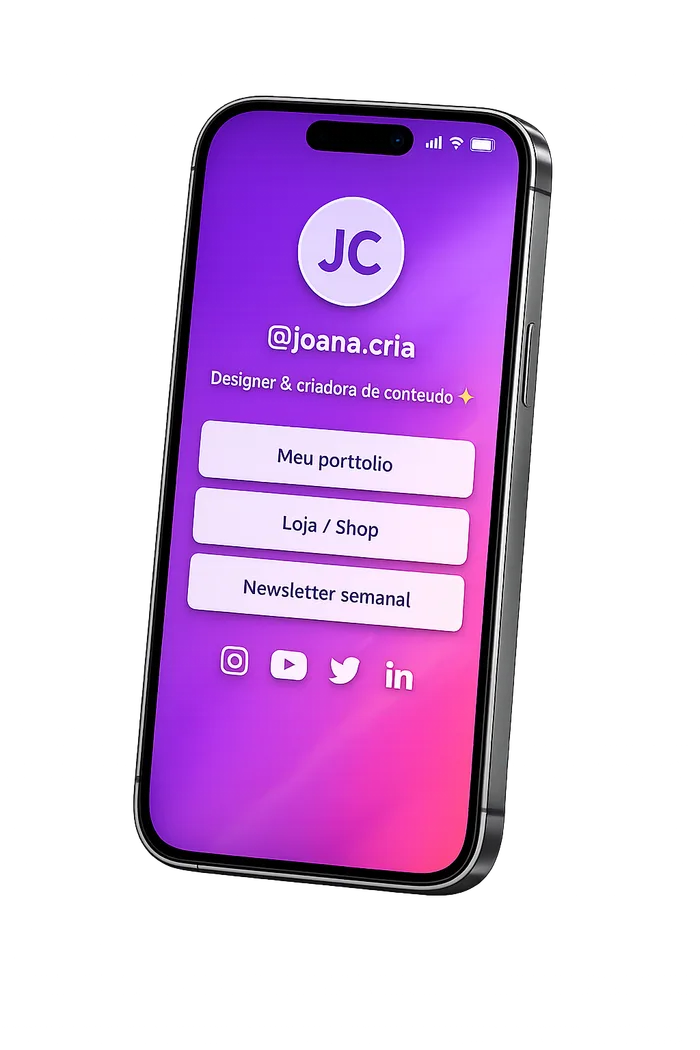
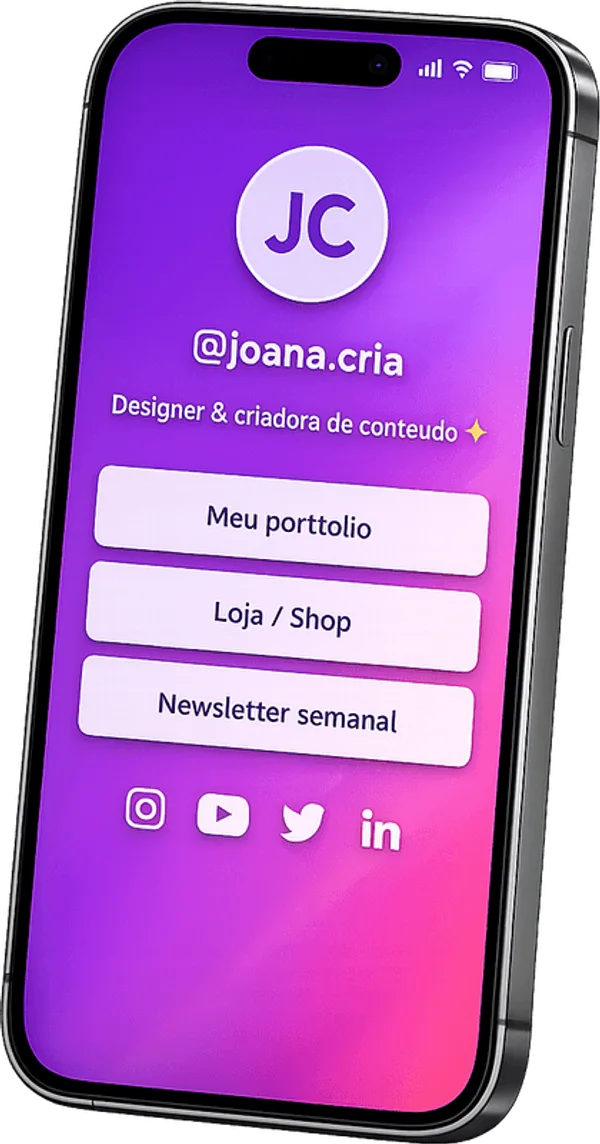
update

diff --git a/pages/index.vue b/pages/index.vue
@@ -57,59 +57,28 @@ const steps = [
   },
 ]
 
-const features = [
+// Seção única "Por que escolher a LinkLand": mistura recursos, público e
+// diferenciais num só bloco enxuto (evita repetir 3 grids parecidos seguidos).
+const highlights = [
   {
     icon: 'i-lucide-layout-template',
-    title: 'Templates com identidade de verdade',
-    text: 'Modelos modernos — do minimalista ao retrô Pixel Art — para sua página de links não parecer genérica.',
+    title: 'Templates com identidade',
+    text: 'Do minimalista ao retrô Pixel Art — nada de página com cara de link genérico.',
   },
   {
     icon: 'i-lucide-blocks',
-    title: 'Blocos flexíveis para tudo',
-    text: 'Links, redes sociais, botão de WhatsApp, texto e imagem. Arraste para reordenar como quiser.',
+    title: 'Blocos para tudo',
+    text: 'Links, redes sociais, WhatsApp, texto e imagem — para criadores, empresas e profissionais liberais.',
   },
   {
-    icon: 'i-lucide-zap',
-    title: 'Publicação instantânea',
-    text: 'Sua página de links no ar assim que você publicar — sem esperar aprovação nem revisão.',
+    icon: 'i-lucide-gauge',
+    title: 'Leve e instantânea',
+    text: 'Publica na hora e abre rápido em qualquer celular, direto da bio do Instagram e do TikTok.',
   },
   {
-    icon: 'i-lucide-smartphone',
-    title: 'Pensado primeiro pro celular',
-    text: 'Rápida, leve e responsiva: abre na hora direto da bio do Instagram e do TikTok.',
-  },
-]
-
-const audiences = [
-  {
-    icon: 'i-lucide-clapperboard',
-    title: 'Criadores de conteúdo',
-    text: 'Centralize redes sociais, vídeos e parcerias num link único para a bio.',
-  },
-  {
-    icon: 'i-lucide-store',
-    title: 'Empresas e comércio local',
-    text: 'Catálogo, WhatsApp, endereço e redes sociais numa página só, fácil de manter.',
-  },
-  {
-    icon: 'i-lucide-briefcase',
-    title: 'Profissionais liberais',
-    text: 'Advogados, dentistas, personal trainers e consultores com uma bio personalizada e profissional.',
-  },
-  {
-    icon: 'i-lucide-graduation-cap',
-    title: 'Infoprodutores e afiliados',
-    text: 'Reúna cursos, e-books e links de afiliado num agregador de links organizado.',
-  },
-  {
-    icon: 'i-lucide-music',
-    title: 'Artistas e músicos',
-    text: 'Shows, playlists no Spotify, clipes e redes sociais num único link para divulgar em qualquer lugar.',
-  },
-  {
-    icon: 'i-lucide-party-popper',
-    title: 'Eventos e datas especiais',
-    text: 'Casamentos, formaturas e eventos com uma página bonita para convites, RSVP e informações.',
+    icon: 'i-lucide-gift',
+    title: 'Grátis de verdade',
+    text: 'O plano gratuito é completo o bastante para começar sem travar sua criatividade.',
   },
 ]
 
@@ -127,29 +96,6 @@ const premiumFeatures = [
   'Blocos de Texto e Imagem, fontes e fundo personalizados',
   'QR Code da sua página para divulgar offline',
   'Remova a marca "Criado por LinkLand"',
-]
-
-const differentiators = [
-  {
-    icon: 'i-lucide-flag',
-    title: 'Feita para o Brasil',
-    text: 'Suporte e produto em português, pensados para criadores e negócios brasileiros — não é só uma tradução.',
-  },
-  {
-    icon: 'i-lucide-gift',
-    title: 'Grátis de verdade',
-    text: 'O plano gratuito da LinkLand é completo o suficiente para começar sem esbarrar em bloqueios logo de cara.',
-  },
-  {
-    icon: 'i-lucide-sparkles',
-    title: 'Visual que impressiona',
-    text: 'Templates com personalidade — do minimalista ao Pixel Art — em vez de um link genérico e sem graça.',
-  },
-  {
-    icon: 'i-lucide-gauge',
-    title: 'Leve e instantânea',
-    text: 'Páginas otimizadas para carregar rápido em qualquer celular, sem travar a experiência de quem clicou na sua bio.',
-  },
 ]
 
 const faqs = [
@@ -294,7 +240,7 @@ useHead({
         class="relative overflow-hidden bg-gradient-to-b from-indigo-50 via-white to-white dark:from-indigo-950/40 dark:via-gray-950 dark:to-gray-950"
       >
         <div
-          class="mx-auto grid max-w-6xl items-center gap-12 px-5 py-16 sm:py-24 lg:grid-cols-2"
+          class="mx-auto grid max-w-6xl items-center gap-8 px-5 py-16 sm:py-24 lg:grid-cols-2 lg:gap-12"
         >
           <div class="text-center lg:text-left">
             <span
@@ -354,10 +300,10 @@ useHead({
               <img
                 src="/image-iphone.png"
                 alt="Exemplo de página de links da LinkLand aberta num celular, com links, redes sociais e botão de WhatsApp"
-                width="700"
-                height="1050"
+                width="600"
+                height="1144"
                 fetchpriority="high"
-                class="w-full max-w-[220px] drop-shadow-2xl sm:max-w-[330px]"
+                class="w-full max-w-[160px] drop-shadow-2xl sm:max-w-[280px]"
               />
             </picture>
           </div>
@@ -389,59 +335,30 @@ useHead({
         </ol>
       </section>
 
-      <!-- Features -->
-      <section aria-labelledby="recursos-heading" class="mx-auto max-w-6xl px-5 py-16 sm:py-20">
-        <h2 id="recursos-heading" class="text-center font-display text-3xl font-bold tracking-tight sm:text-4xl">
-          Tudo o que você precisa numa página de links
-        </h2>
-        <p class="mx-auto mt-3 max-w-2xl text-center text-gray-600 dark:text-gray-400">
-          Simples de montar, bonito de mostrar — sem depender de outra pessoa.
-        </p>
-
-        <div class="mt-12 grid gap-6 sm:grid-cols-2 lg:grid-cols-4">
-          <div
-            v-for="feature in features"
-            :key="feature.title"
-            class="rounded-2xl border border-gray-200 p-6 transition hover:border-primary-300 hover:shadow-lg dark:border-gray-800 dark:hover:border-primary-800"
-          >
-            <div
-              class="flex size-11 items-center justify-center rounded-xl bg-primary-50 text-primary-600 dark:bg-primary-950/60 dark:text-primary-300"
-            >
-              <UIcon :name="feature.icon" class="size-6" aria-hidden="true" />
-            </div>
-            <h3 class="mt-4 font-semibold">{{ feature.title }}</h3>
-            <p class="mt-2 text-sm text-gray-600 dark:text-gray-400">
-              {{ feature.text }}
-            </p>
-          </div>
-        </div>
-      </section>
-
-      <!-- Para quem é a LinkLand -->
-      <section aria-labelledby="para-quem-heading" class="bg-gray-50 px-5 py-16 dark:bg-gray-900/40 sm:py-20">
+      <!-- Por que escolher a LinkLand (recursos + público + diferenciais, num só bloco) -->
+      <section aria-labelledby="recursos-heading" class="bg-gray-50 px-5 py-16 dark:bg-gray-900/40 sm:py-20">
         <div class="mx-auto max-w-6xl">
-          <h2 id="para-quem-heading" class="text-center font-display text-3xl font-bold tracking-tight sm:text-4xl">
-            Para quem é a LinkLand
+          <h2 id="recursos-heading" class="text-center font-display text-3xl font-bold tracking-tight sm:text-4xl">
+            Por que escolher a LinkLand
           </h2>
           <p class="mx-auto mt-3 max-w-2xl text-center text-gray-600 dark:text-gray-400">
-            Se você tem links para compartilhar, a LinkLand é para você.
+            A alternativa 100% brasileira ao Linktree, para criadores, empresas
+            e profissionais que querem uma bio bonita e fácil de manter.
           </p>
 
-          <div class="mt-12 grid gap-6 sm:grid-cols-2 lg:grid-cols-3">
+          <div class="mt-12 grid gap-6 sm:grid-cols-2 lg:grid-cols-4">
             <div
-              v-for="audience in audiences"
-              :key="audience.title"
-              class="flex items-start gap-4 rounded-2xl bg-white p-5 dark:bg-gray-900"
+              v-for="item in highlights"
+              :key="item.title"
+              class="rounded-2xl bg-white p-6 dark:bg-gray-900"
             >
               <div
-                class="flex size-10 shrink-0 items-center justify-center rounded-xl bg-primary-50 text-primary-600 dark:bg-primary-950/60 dark:text-primary-300"
+                class="flex size-11 items-center justify-center rounded-xl bg-primary-50 text-primary-600 dark:bg-primary-950/60 dark:text-primary-300"
               >
-                <UIcon :name="audience.icon" class="size-5" aria-hidden="true" />
+                <UIcon :name="item.icon" class="size-6" aria-hidden="true" />
               </div>
-              <div>
-                <h3 class="font-semibold">{{ audience.title }}</h3>
-                <p class="mt-1 text-sm text-gray-600 dark:text-gray-400">{{ audience.text }}</p>
-              </div>
+              <h3 class="mt-4 font-semibold">{{ item.title }}</h3>
+              <p class="mt-2 text-sm text-gray-600 dark:text-gray-400">{{ item.text }}</p>
             </div>
           </div>
         </div>
@@ -491,36 +408,6 @@ useHead({
               <UButton to="/register" block class="mt-6">
                 Experimentar o Premium
               </UButton>
-            </div>
-          </div>
-        </div>
-      </section>
-
-      <!-- Diferenciais -->
-      <section aria-labelledby="diferenciais-heading" class="bg-gray-50 px-5 py-16 dark:bg-gray-900/40 sm:py-20">
-        <div class="mx-auto max-w-6xl">
-          <h2 id="diferenciais-heading" class="text-center font-display text-3xl font-bold tracking-tight sm:text-4xl">
-            Por que escolher a LinkLand
-          </h2>
-          <p class="mx-auto mt-3 max-w-2xl text-center text-gray-600 dark:text-gray-400">
-            Uma alternativa ao Linktree pensada do zero para quem fala português.
-          </p>
-
-          <div class="mt-12 grid gap-6 sm:grid-cols-2">
-            <div
-              v-for="item in differentiators"
-              :key="item.title"
-              class="flex items-start gap-4 rounded-2xl bg-white p-5 dark:bg-gray-900"
-            >
-              <div
-                class="flex size-10 shrink-0 items-center justify-center rounded-xl bg-primary-50 text-primary-600 dark:bg-primary-950/60 dark:text-primary-300"
-              >
-                <UIcon :name="item.icon" class="size-5" aria-hidden="true" />
-              </div>
-              <div>
-                <h3 class="font-semibold">{{ item.title }}</h3>
-                <p class="mt-1 text-sm text-gray-600 dark:text-gray-400">{{ item.text }}</p>
-              </div>
             </div>
           </div>
         </div>